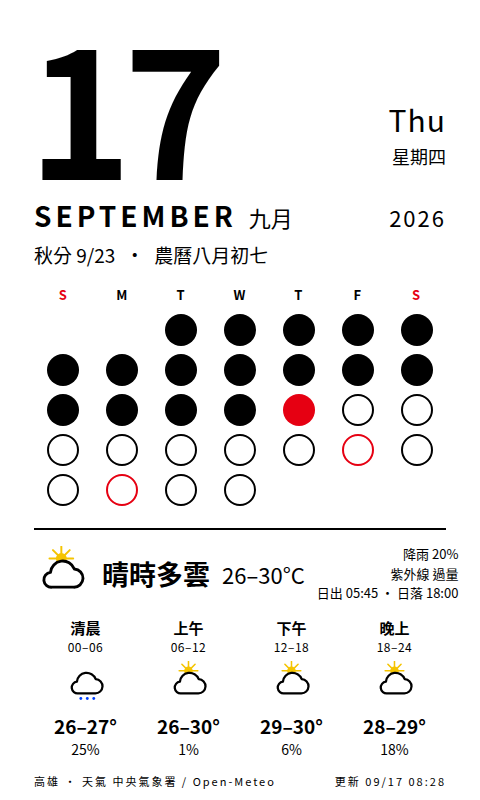
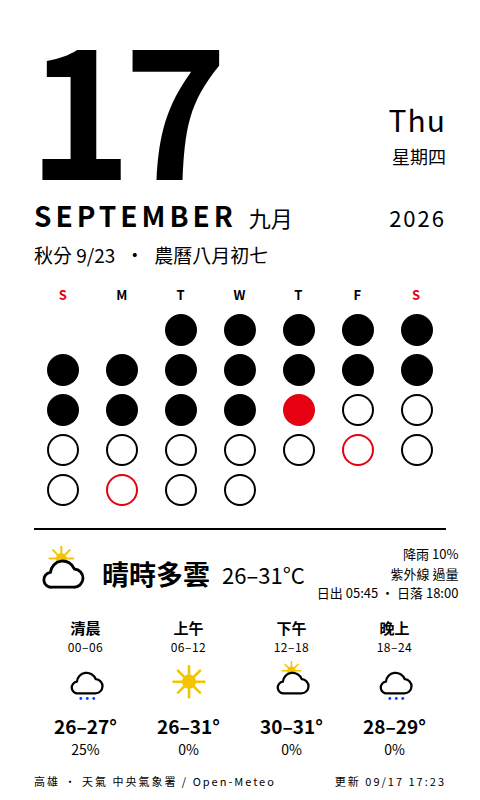
deploy: cf7d1051eb6821bc691ba0ade4beb12cdf9fe0ef

diff --git a/calendar.html b/calendar.html
@@ -54,9 +54,9 @@
   <div class="today"><span class="lunar">秋分 9/23</span><span>·</span><span class="lunar">農曆八月初七</span></div>
   <div class="grid"><div class="h we">S</div><div class="h">M</div><div class="h">T</div><div class="h">W</div><div class="h">T</div><div class="h">F</div><div class="h we">S</div><div class="dot empty"></div><div class="dot empty"></div><div class="dot past" title="1"></div><div class="dot past" title="2"></div><div class="dot past" title="3"></div><div class="dot past" title="4"></div><div class="dot past" title="5"></div><div class="dot past" title="6"></div><div class="dot past" title="7"></div><div class="dot past" title="8"></div><div class="dot past" title="9"></div><div class="dot past" title="10"></div><div class="dot past" title="11"></div><div class="dot past" title="12"></div><div class="dot past" title="13"></div><div class="dot past" title="14"></div><div class="dot past" title="15"></div><div class="dot past" title="16"></div><div class="dot now" title="17"></div><div class="dot future" title="18"></div><div class="dot future" title="19"></div><div class="dot future" title="20"></div><div class="dot future" title="21"></div><div class="dot future" title="22"></div><div class="dot future" title="23"></div><div class="dot future" title="24"></div><div class="dot future hol" title="25"></div><div class="dot future" title="26"></div><div class="dot future" title="27"></div><div class="dot future hol" title="28"></div><div class="dot future" title="29"></div><div class="dot future" title="30"></div></div>
   <div class="wx"><div class="line">
-    <div class="wxhead"><svg viewBox="0 0 64 68" xmlns="http://www.w3.org/2000/svg"><g transform="translate(12 -4) scale(.6)"><circle cx="32" cy="32" r="11" fill="#f5c400"/><g stroke="#f5c400" stroke-width="4" stroke-linecap="round"><line x1="32" y1="32" x2="32" y2="8" transform="rotate(0 32 32)"/><line x1="32" y1="32" x2="32" y2="8" transform="rotate(45 32 32)"/><line x1="32" y1="32" x2="32" y2="8" transform="rotate(90 32 32)"/><line x1="32" y1="32" x2="32" y2="8" transform="rotate(135 32 32)"/><line x1="32" y1="32" x2="32" y2="8" transform="rotate(180 32 32)"/><line x1="32" y1="32" x2="32" y2="8" transform="rotate(225 32 32)"/><line x1="32" y1="32" x2="32" y2="8" transform="rotate(270 32 32)"/><line x1="32" y1="32" x2="32" y2="8" transform="rotate(315 32 32)"/></g></g><path d="M20 50h26a11 11 0 0 0 1-22 15 15 0 0 0-29 4 9 9 0 0 0 2 18z" fill="#fff" stroke="#000" stroke-width="3.5" stroke-linejoin="round"/></svg><span class="desc">晴時多雲</span><span class="temp">26–30°C</span>
-      <div class="meta">降雨 20%<br>紫外線 過量<br>日出 05:45 · 日落 18:00</div></div>
-    <div class="slots"><div class="slot"><div class="n">清晨</div><div class="hrs">00–06</div><svg viewBox="0 0 64 68" xmlns="http://www.w3.org/2000/svg"><path d="M20 50h26a11 11 0 0 0 1-22 15 15 0 0 0-29 4 9 9 0 0 0 2 18z" fill="#fff" stroke="#000" stroke-width="3.5" stroke-linejoin="round"/><g fill="#0040ff"><circle cx="24" cy="58" r="2.2"/><circle cx="34" cy="58" r="2.2"/><circle cx="44" cy="58" r="2.2"/></g></svg><div class="t">26–27°</div><div class="p dry">25%</div></div><div class="slot"><div class="n">上午</div><div class="hrs">06–12</div><svg viewBox="0 0 64 68" xmlns="http://www.w3.org/2000/svg"><g transform="translate(12 -4) scale(.6)"><circle cx="32" cy="32" r="11" fill="#f5c400"/><g stroke="#f5c400" stroke-width="4" stroke-linecap="round"><line x1="32" y1="32" x2="32" y2="8" transform="rotate(0 32 32)"/><line x1="32" y1="32" x2="32" y2="8" transform="rotate(45 32 32)"/><line x1="32" y1="32" x2="32" y2="8" transform="rotate(90 32 32)"/><line x1="32" y1="32" x2="32" y2="8" transform="rotate(135 32 32)"/><line x1="32" y1="32" x2="32" y2="8" transform="rotate(180 32 32)"/><line x1="32" y1="32" x2="32" y2="8" transform="rotate(225 32 32)"/><line x1="32" y1="32" x2="32" y2="8" transform="rotate(270 32 32)"/><line x1="32" y1="32" x2="32" y2="8" transform="rotate(315 32 32)"/></g></g><path d="M20 50h26a11 11 0 0 0 1-22 15 15 0 0 0-29 4 9 9 0 0 0 2 18z" fill="#fff" stroke="#000" stroke-width="3.5" stroke-linejoin="round"/></svg><div class="t">26–30°</div><div class="p dry">1%</div></div><div class="slot"><div class="n">下午</div><div class="hrs">12–18</div><svg viewBox="0 0 64 68" xmlns="http://www.w3.org/2000/svg"><g transform="translate(12 -4) scale(.6)"><circle cx="32" cy="32" r="11" fill="#f5c400"/><g stroke="#f5c400" stroke-width="4" stroke-linecap="round"><line x1="32" y1="32" x2="32" y2="8" transform="rotate(0 32 32)"/><line x1="32" y1="32" x2="32" y2="8" transform="rotate(45 32 32)"/><line x1="32" y1="32" x2="32" y2="8" transform="rotate(90 32 32)"/><line x1="32" y1="32" x2="32" y2="8" transform="rotate(135 32 32)"/><line x1="32" y1="32" x2="32" y2="8" transform="rotate(180 32 32)"/><line x1="32" y1="32" x2="32" y2="8" transform="rotate(225 32 32)"/><line x1="32" y1="32" x2="32" y2="8" transform="rotate(270 32 32)"/><line x1="32" y1="32" x2="32" y2="8" transform="rotate(315 32 32)"/></g></g><path d="M20 50h26a11 11 0 0 0 1-22 15 15 0 0 0-29 4 9 9 0 0 0 2 18z" fill="#fff" stroke="#000" stroke-width="3.5" stroke-linejoin="round"/></svg><div class="t">29–30°</div><div class="p dry">6%</div></div><div class="slot"><div class="n">晚上</div><div class="hrs">18–24</div><svg viewBox="0 0 64 68" xmlns="http://www.w3.org/2000/svg"><g transform="translate(12 -4) scale(.6)"><circle cx="32" cy="32" r="11" fill="#f5c400"/><g stroke="#f5c400" stroke-width="4" stroke-linecap="round"><line x1="32" y1="32" x2="32" y2="8" transform="rotate(0 32 32)"/><line x1="32" y1="32" x2="32" y2="8" transform="rotate(45 32 32)"/><line x1="32" y1="32" x2="32" y2="8" transform="rotate(90 32 32)"/><line x1="32" y1="32" x2="32" y2="8" transform="rotate(135 32 32)"/><line x1="32" y1="32" x2="32" y2="8" transform="rotate(180 32 32)"/><line x1="32" y1="32" x2="32" y2="8" transform="rotate(225 32 32)"/><line x1="32" y1="32" x2="32" y2="8" transform="rotate(270 32 32)"/><line x1="32" y1="32" x2="32" y2="8" transform="rotate(315 32 32)"/></g></g><path d="M20 50h26a11 11 0 0 0 1-22 15 15 0 0 0-29 4 9 9 0 0 0 2 18z" fill="#fff" stroke="#000" stroke-width="3.5" stroke-linejoin="round"/></svg><div class="t">28–29°</div><div class="p dry">18%</div></div></div>
+    <div class="wxhead"><svg viewBox="0 0 64 68" xmlns="http://www.w3.org/2000/svg"><g transform="translate(12 -4) scale(.6)"><circle cx="32" cy="32" r="11" fill="#f5c400"/><g stroke="#f5c400" stroke-width="4" stroke-linecap="round"><line x1="32" y1="32" x2="32" y2="8" transform="rotate(0 32 32)"/><line x1="32" y1="32" x2="32" y2="8" transform="rotate(45 32 32)"/><line x1="32" y1="32" x2="32" y2="8" transform="rotate(90 32 32)"/><line x1="32" y1="32" x2="32" y2="8" transform="rotate(135 32 32)"/><line x1="32" y1="32" x2="32" y2="8" transform="rotate(180 32 32)"/><line x1="32" y1="32" x2="32" y2="8" transform="rotate(225 32 32)"/><line x1="32" y1="32" x2="32" y2="8" transform="rotate(270 32 32)"/><line x1="32" y1="32" x2="32" y2="8" transform="rotate(315 32 32)"/></g></g><path d="M20 50h26a11 11 0 0 0 1-22 15 15 0 0 0-29 4 9 9 0 0 0 2 18z" fill="#fff" stroke="#000" stroke-width="3.5" stroke-linejoin="round"/></svg><span class="desc">晴時多雲</span><span class="temp">26–31°C</span>
+      <div class="meta">降雨 10%<br>紫外線 過量<br>日出 05:45 · 日落 18:00</div></div>
+    <div class="slots"><div class="slot"><div class="n">清晨</div><div class="hrs">00–06</div><svg viewBox="0 0 64 68" xmlns="http://www.w3.org/2000/svg"><path d="M20 50h26a11 11 0 0 0 1-22 15 15 0 0 0-29 4 9 9 0 0 0 2 18z" fill="#fff" stroke="#000" stroke-width="3.5" stroke-linejoin="round"/><g fill="#0040ff"><circle cx="24" cy="58" r="2.2"/><circle cx="34" cy="58" r="2.2"/><circle cx="44" cy="58" r="2.2"/></g></svg><div class="t">26–27°</div><div class="p dry">25%</div></div><div class="slot"><div class="n">上午</div><div class="hrs">06–12</div><svg viewBox="0 0 64 68" xmlns="http://www.w3.org/2000/svg"><circle cx="32" cy="32" r="11" fill="#f5c400"/><g stroke="#f5c400" stroke-width="4" stroke-linecap="round"><line x1="32" y1="32" x2="32" y2="8" transform="rotate(0 32 32)"/><line x1="32" y1="32" x2="32" y2="8" transform="rotate(45 32 32)"/><line x1="32" y1="32" x2="32" y2="8" transform="rotate(90 32 32)"/><line x1="32" y1="32" x2="32" y2="8" transform="rotate(135 32 32)"/><line x1="32" y1="32" x2="32" y2="8" transform="rotate(180 32 32)"/><line x1="32" y1="32" x2="32" y2="8" transform="rotate(225 32 32)"/><line x1="32" y1="32" x2="32" y2="8" transform="rotate(270 32 32)"/><line x1="32" y1="32" x2="32" y2="8" transform="rotate(315 32 32)"/></g></svg><div class="t">26–31°</div><div class="p dry">0%</div></div><div class="slot"><div class="n">下午</div><div class="hrs">12–18</div><svg viewBox="0 0 64 68" xmlns="http://www.w3.org/2000/svg"><g transform="translate(12 -4) scale(.6)"><circle cx="32" cy="32" r="11" fill="#f5c400"/><g stroke="#f5c400" stroke-width="4" stroke-linecap="round"><line x1="32" y1="32" x2="32" y2="8" transform="rotate(0 32 32)"/><line x1="32" y1="32" x2="32" y2="8" transform="rotate(45 32 32)"/><line x1="32" y1="32" x2="32" y2="8" transform="rotate(90 32 32)"/><line x1="32" y1="32" x2="32" y2="8" transform="rotate(135 32 32)"/><line x1="32" y1="32" x2="32" y2="8" transform="rotate(180 32 32)"/><line x1="32" y1="32" x2="32" y2="8" transform="rotate(225 32 32)"/><line x1="32" y1="32" x2="32" y2="8" transform="rotate(270 32 32)"/><line x1="32" y1="32" x2="32" y2="8" transform="rotate(315 32 32)"/></g></g><path d="M20 50h26a11 11 0 0 0 1-22 15 15 0 0 0-29 4 9 9 0 0 0 2 18z" fill="#fff" stroke="#000" stroke-width="3.5" stroke-linejoin="round"/></svg><div class="t">30–31°</div><div class="p dry">0%</div></div><div class="slot"><div class="n">晚上</div><div class="hrs">18–24</div><svg viewBox="0 0 64 68" xmlns="http://www.w3.org/2000/svg"><path d="M20 50h26a11 11 0 0 0 1-22 15 15 0 0 0-29 4 9 9 0 0 0 2 18z" fill="#fff" stroke="#000" stroke-width="3.5" stroke-linejoin="round"/><g fill="#0040ff"><circle cx="24" cy="58" r="2.2"/><circle cx="34" cy="58" r="2.2"/><circle cx="44" cy="58" r="2.2"/></g></svg><div class="t">28–29°</div><div class="p dry">0%</div></div></div>
   </div></div>
-  <div class="foot"><span>高雄 · 天氣 中央氣象署 / Open-Meteo</span><span>更新 09/17 08:28</span></div>
+  <div class="foot"><span>高雄 · 天氣 中央氣象署 / Open-Meteo</span><span>更新 09/17 17:23</span></div>
 </div></body></html>
